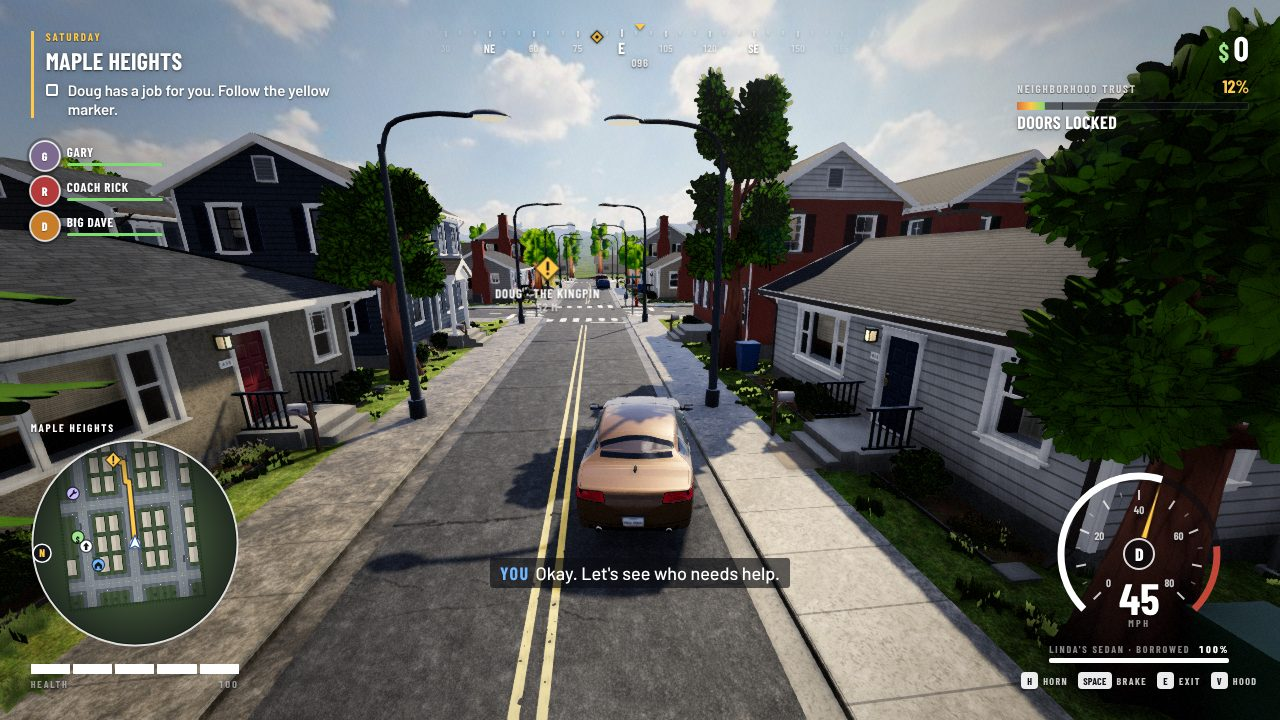
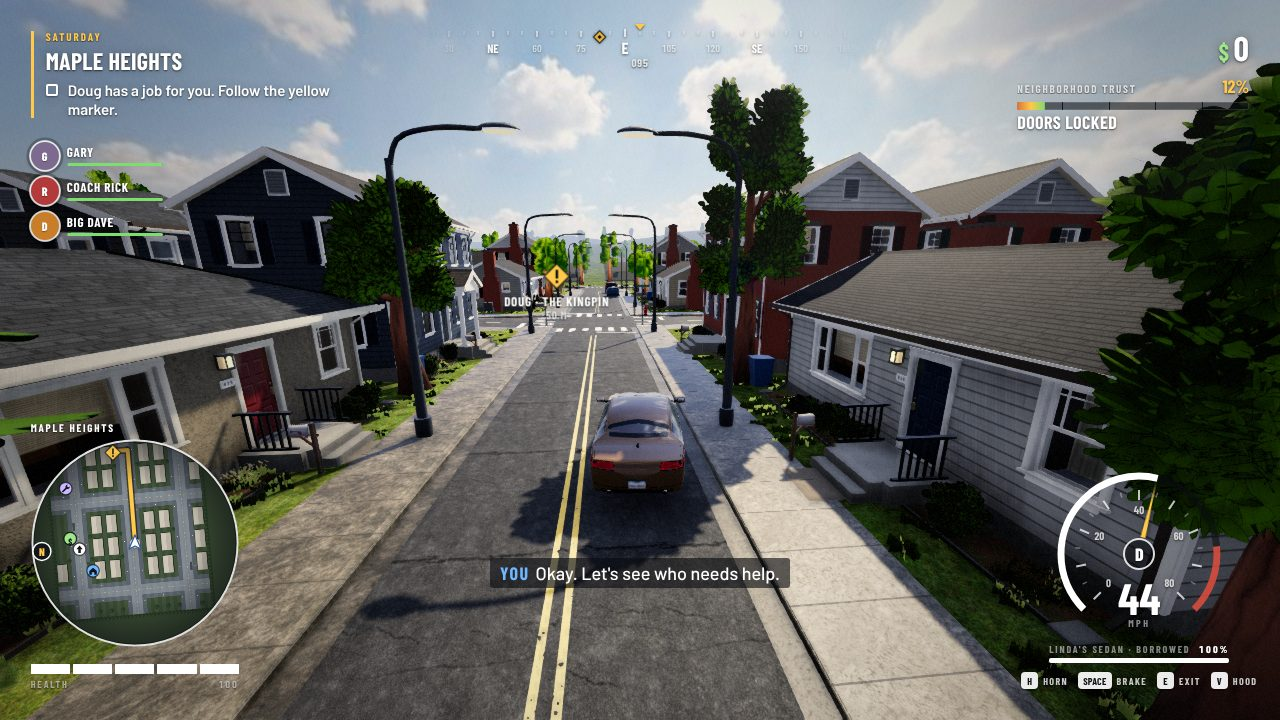
HT.Garage stock stats match the per-type handling (parity test), high-speed feel: steering fades, camera stretches
Claude-Session: https://claude.ai/code/session_01N2EZBEFRn25jtAEoE24D8i

diff --git a/dev/test-carai.js b/dev/test-carai.js
@@ -6,9 +6,12 @@ const near=(a,b,e=1e-6)=>Math.abs(a-b)<=e;
 const offRoad=(x,z)=>{const tx=Math.floor(x/2),tz=Math.floor(z/2);if(',=Vl'.includes(def.map[tz][tx]))return 0;let best=9;
   for(let dz=-1;dz<=1;dz++)for(let dx=-1;dx<=1;dx++){const c=def.map[tz+dz][tx+dx];if(!',=Vl'.includes(c))continue;const x0=(tx+dx)*2,z0=(tz+dz)*2;best=Math.min(best,Math.hypot(Math.max(x0-x,0,x-x0-2),Math.max(z0-z,0,z-z0-2)))}return best};
 test('stock minivan stats equal index.html updVan constants',()=>{const s=Ga.apply('minivan');
-  assert.deepStrictEqual([s.maxSpeed,s.boostMax,s.accel,s.boostAccel,s.brake,s.hbrake,s.coast,s.revMax,s.revAccel,s.steerResp,s.turn,s.turnFade,s.hp,s.slots,s.ammoBonus],[17,25,8,11,24,20,3.5,8,7,7,1.55,.75,100,3,0])});
+  assert.deepStrictEqual([s.maxSpeed,s.boostMax,s.accel,s.boostAccel,s.brake,s.hbrake,s.coast,s.revMax,s.revAccel,s.steerResp,s.turn,s.turnFade,s.hp,s.slots,s.ammoBonus],[25,33,9,12,24,20,3.5,8,7,7,1.55,.75,100,3,0])});
+test('index.html CAR_FEEL matches HT.Garage stock stats for every type',()=>{const src=require('fs').readFileSync(require('path').join(__dirname,'..','index.html'),'utf8');
+  for(const t of Object.keys(Ga.VEH)){const m=new RegExp('\\n '+t+':\\s*\\{([^\\n]*)\\}').exec(src.slice(src.indexOf('const CAR_FEEL=')));assert(m,t);const g=k=>+new RegExp('[,{\\s]'+k+':\\s*([\\d.]+)').exec('{'+m[1])[1],V=Ga.VEH[t];
+    for(const[a,b]of[['max','max'],['boostMax','boostMax'],['acc','acc'],['boostAcc','boostAcc'],['brake','brake'],['hbrake','hbrake'],['steerResp','steerResp'],['turn','turn'],['grip','grip']])assert.strictEqual(g(a),V[b],t+'.'+a)}});
 test('upgrades: eng2 + tyre2 + brk2 (SPEC2 E W5-1)',()=>{const v=Ga.defaultVehicle();v.perf={engine:2,tyres:2,brakes:2,sport:false};const s=Ga.apply('minivan',v);
-  assert.strictEqual(s.maxSpeed,21);assert.strictEqual(s.boostMax,30);assert(near(s.accel,10.96));assert(near(s.grip,13.95));assert.strictEqual(s.brake,36);assert(s.absGrip)});
+  assert.strictEqual(s.maxSpeed,29);assert.strictEqual(s.boostMax,38);assert(near(s.accel,12.33));assert(near(s.grip,13.95));assert.strictEqual(s.brake,36);assert(s.absGrip)});
 test('protection and utility map to hp, ram, bullets, ammo, slots',()=>{const v=Ga.defaultVehicle();v.prot={bullBar:true,armor:2};const s=Ga.apply('minivan',v,{cargo:true,rack:true,aid:true});
   assert.strictEqual(s.hp,190);assert.strictEqual(s.bulletMul,.5);assert.strictEqual(s.ramDealtFront,2);assert.strictEqual(s.impactTakenFront,.5);assert.strictEqual(s.ammoBonus,2);assert.strictEqual(s.slots,4);assert(s.firstAid);
   assert.strictEqual(Ga.apply('pickup',Ga.defaultVehicle(),{cargo:true}).ammoBonus,4)});
@@ -24,15 +27,15 @@ test('horns: synthesized notes, capped at 2.4 s, light bar never red/blue',()=>{
   for(const id in Ga.HORNS){for(const x of Ga.hornNotes(id))assert(x.t+x.d<=2.4+1e-9&&x.f>100&&x.f<1200)}
   for(const c of Ga.COSMETICS.lightBar.amber.colors){const r=parseInt(c.slice(1,3),16),g=parseInt(c.slice(3,5),16),b=parseInt(c.slice(5,7),16);assert(!(r>200&&g<80&&b<80)&&!(b>200&&r<80&&g<80))}});
 /* reference: the current index.html updVan (kinematic, no slip) */
-function oldUpdVan(V,keys,dt){const boost=keys.shift,MAX=boost?25:17;let v=V.spd,thr=keys.w?1:0,st=keys.a?1:0;
-  if(thr>0)v+=(v<0?24:boost?11:8)*dt*thr;else v-=Math.sign(v)*Math.min(Math.abs(v),3.5*dt);v=Math.min(Math.max(v,-8),MAX);V.spd=v;V.steer+=(st-V.steer)*Math.min(1,dt*7);
+function oldUpdVan(V,keys,dt){const boost=keys.shift,MAX=boost?33:25;let v=V.spd,thr=keys.w?1:0,st=keys.a?1:0;
+  if(thr>0)v+=(v<0?24:boost?12:9)*dt*thr;else v-=Math.sign(v)*Math.min(Math.abs(v),3.5*dt);v=Math.min(Math.max(v,-8),MAX);V.spd=v;V.steer+=(st-V.steer)*Math.min(1,dt*7);
   V.yaw+=V.steer*Math.min(Math.max(Math.abs(v)/5,0),1)*(1.55-Math.min(.75,Math.abs(v)/35))*Math.sign(v)*dt;V.x+=-Math.sin(V.yaw)*v*dt;V.z+=-Math.cos(V.yaw)*v*dt}
 test('feel parity: stock van ends within 10% of path length of the current updVan',()=>{for(const[keys,steps]of[[{w:1},90],[{w:1,a:1},90],[{w:1,shift:1,a:1},120],[{w:1,shift:1},150]]){
     const ref={x:0,z:0,yaw:0,spd:0,steer:0},c=C.make('minivan',{x:0,z:0,yaw:0});let dist=0;for(let i=0;i<steps;i++){const px=ref.x,pz=ref.z;oldUpdVan(ref,keys,1/30);dist+=Math.hypot(ref.x-px,ref.z-pz);C.drive(c,{thr:keys.w?1:0,st:keys.a?1:0,boost:!!keys.shift},1/30)}
     const err=Math.hypot(ref.x-c.x,ref.z-c.z);assert(err<=dist*.1,JSON.stringify(keys)+' err '+err.toFixed(2)+' of '+dist.toFixed(1));assert(near(ref.spd,c.spd,.01))}});
-test('top speeds: stock boost 25, eng3 33, sport burst 39 then 14 s cooldown',()=>{const run=(v,inp,n)=>{const c=C.make('minivan',{vehicle:v});let peak=0;for(let i=0;i<n;i++){C.drive(c,inp(i),1/30);peak=Math.max(peak,c.spd)}return{c,peak}};
-  assert(near(run(null,()=>({thr:1,boost:true}),300).peak,25,.01));const v3=Ga.defaultVehicle();v3.perf={engine:3,tyres:0,brakes:0,sport:true};assert(near(run(v3,()=>({thr:1,boost:true}),300).peak,33,.01));
-  const s=run(v3,i=>({thr:1,boost:true,sport:i>=200}),400);assert(near(s.peak,39,.05));assert(s.c.sportCd>0)});
+test('top speeds: stock boost 33, eng3 41, sport burst 47 then 14 s cooldown',()=>{const run=(v,inp,n)=>{const c=C.make('minivan',{vehicle:v});let peak=0;for(let i=0;i<n;i++){C.drive(c,inp(i),1/30);peak=Math.max(peak,c.spd)}return{c,peak}};
+  assert(near(run(null,()=>({thr:1,boost:true}),300).peak,33,.01));const v3=Ga.defaultVehicle();v3.perf={engine:3,tyres:0,brakes:0,sport:true};assert(near(run(v3,()=>({thr:1,boost:true}),300).peak,41,.01));
+  const s=run(v3,i=>({thr:1,boost:true,sport:i>=200}),400);assert(near(s.peak,47,.05));assert(s.c.sportCd>0)});
 test('van impact damage numbers (SPEC2 C.3)',()=>{const c=C.make('minivan');assert(near(C.impact(c,20,false,true),24.2));assert(near(C.impact(c,20,false,false),12.1));
   const vb=Ga.defaultVehicle();vb.prot.bullBar=true;const b=C.make('minivan',{vehicle:vb});assert(near(C.impact(b,20,true,true),12.1));
   const d=C.make('minivan');for(let i=0;i<5;i++)C.impact(d,20,false,true);assert.strictEqual(C.state(d).stage,'disabled');C.drive(d,{thr:1},1);assert(d.spd<=0.001);

diff --git a/js/carai.js b/js/carai.js
@@ -17,14 +17,14 @@ const HT=root.HT=root.HT||{};
 const clamp=(v,a,b)=>v<a?a:v>b?b:v,wrap=a=>{while(a>Math.PI)a-=2*Math.PI;while(a<-Math.PI)a+=2*Math.PI;return a};
 const fwd=y=>[-Math.sin(y),-Math.cos(y)],yawTo=(dx,dz)=>Math.atan2(-dx,-dz);
 
-/* ---------- vehicle base stats (minivan row = today's updVan constants) ---------- */
+/* ---------- vehicle base stats (stock, m/s; same numbers as index.html CAR_FEEL, checked by dev/test-carai.js) ---------- */
 const VEH={
- minivan:{name:'Family Minivan', seats:7,len:4.4,wid:2.0,hp:100,max:17,boostMax:25,acc:8,  boostAcc:11, brake:24,hbrake:20,coast:3.5,revMax:8,revAcc:7,steerResp:7,  turn:1.55,turnFade:.75,grip:9,   ram:1.0,mass:1.0,cargo:0,price:0},
- workvan:{name:'The Contractor', seats:3,len:5.0,wid:2.1,hp:130,max:16,boostMax:23,acc:7,  boostAcc:9.5,brake:22,hbrake:18,coast:3.2,revMax:7,revAcc:6,steerResp:6.5,turn:1.40,turnFade:.75,grip:8,   ram:1.2,mass:1.3,cargo:2,price:3500},
- pickup: {name:'The Tailgater',  seats:5,len:5.2,wid:2.0,hp:120,max:19,boostMax:27,acc:9.5,boostAcc:13, brake:25,hbrake:21,coast:3.5,revMax:8,revAcc:7,steerResp:7.5,turn:1.60,turnFade:.75,grip:9.5, ram:1.3,mass:1.2,cargo:2,price:5500},
- suv:    {name:'The Suburbanite',seats:7,len:4.8,wid:2.0,hp:140,max:20,boostMax:29,acc:10, boostAcc:14, brake:27,hbrake:22,coast:3.5,revMax:8,revAcc:7,steerResp:8,  turn:1.60,turnFade:.75,grip:10.5,ram:1.4,mass:1.4,cargo:1,price:7500},
- sedan:  {name:'Sedan',          seats:5,len:4.6,wid:1.9,hp:100,max:22,boostMax:27,acc:12, boostAcc:14, brake:28,hbrake:22,coast:3.5,revMax:8,revAcc:8,steerResp:8.5,turn:1.75,turnFade:.75,grip:10,  ram:.9, mass:.9, cargo:0,price:null},
- hatch:  {name:'Hatchback',      seats:4,len:3.9,wid:1.8,hp:80, max:20,boostMax:26,acc:13, boostAcc:15, brake:28,hbrake:22,coast:3.5,revMax:8,revAcc:8,steerResp:9,  turn:1.85,turnFade:.75,grip:11,  ram:.8, mass:.8, cargo:0,price:null},
+ minivan:{name:'Family Minivan', seats:7,len:4.4,wid:2.0,hp:100,max:25,boostMax:33,acc:9,  boostAcc:12, brake:24,hbrake:20,coast:3.5,revMax:8,revAcc:7,steerResp:7,  turn:1.55,turnFade:.75,grip:9,   ram:1.0,mass:1.0,cargo:0,price:0},
+ workvan:{name:'The Contractor', seats:3,len:5.0,wid:2.1,hp:130,max:20,boostMax:27,acc:6,  boostAcc:8.5,brake:20,hbrake:17,coast:3.2,revMax:7,revAcc:6,steerResp:5.2,turn:1.3,turnFade:.75,grip:7.5,   ram:1.2,mass:1.3,cargo:2,price:3500},
+ pickup: {name:'The Tailgater',  seats:5,len:5.2,wid:2.0,hp:120,max:23.5,boostMax:32,acc:7.6,boostAcc:11, brake:23,hbrake:20,coast:3.5,revMax:8,revAcc:7,steerResp:7,turn:1.62,turnFade:.75,grip:8.5, ram:1.3,mass:1.2,cargo:2,price:5500},
+ suv:    {name:'The Suburbanite',seats:7,len:4.8,wid:2.0,hp:140,max:26.5,boostMax:34,acc:8.2, boostAcc:11, brake:22,hbrake:19,coast:3.5,revMax:8,revAcc:7,steerResp:6,  turn:1.42,turnFade:.75,grip:8,ram:1.4,mass:1.4,cargo:1,price:7500},
+ sedan:  {name:'Sedan',          seats:5,len:4.6,wid:1.9,hp:100,max:30,boostMax:38,acc:12, boostAcc:15, brake:27,hbrake:21,coast:3.5,revMax:8,revAcc:8,steerResp:8.5,turn:1.75,turnFade:.75,grip:10.5,  ram:.9, mass:.9, cargo:0,price:null},
+ hatch:  {name:'Hatchback',      seats:4,len:3.9,wid:1.8,hp:80, max:27.5,boostMax:34,acc:13.5, boostAcc:16, brake:28,hbrake:22,coast:3.5,revMax:8,revAcc:8,steerResp:10,  turn:2.05,turnFade:.75,grip:11.5,  ram:.8, mass:.8, cargo:0,price:null},
 };
 const ENGINE=[{m:0,b:0,a:1},{m:2,b:2,a:1.18},{m:4,b:5,a:1.37},{m:6,b:8,a:1.62}],
       TYRES=[{g:1,s:1,t:1},{g:1.25,s:1.2,t:1.05},{g:1.55,s:1.45,t:1.10}],
@@ -240,7 +240,7 @@ function pursuerInput(van,car,G,memo){memo=memo||{};const d=Math.hypot(car.x-van
 function simulateChase(o){const W=HT.World,R=HT.Roads;const def=o.def||W.build({bridgeOpen:true}),G=o.G||R.build(def);
   const dt=o.dt||1/30,maxT=o.maxT||240,collide=o.collide===false?null:(o.collide||tileCollider(def));
   const start=o.start||G.nodes[G.nearestNode(def.places.g_earl.x,def.places.g_earl.z)];
-  const car=make(o.carType||'sedan',{x:start.x,z:start.z,yaw:0});flee(car,G,{max:o.max||27,seed:o.seed||7,threat:null});
+  const car=make(o.carType||'sedan',{x:start.x,z:start.z,yaw:0});flee(car,G,{max:o.max||35,seed:o.seed||7,threat:null});
   const away=car.ai.pts[Math.min(3,car.ai.pts.length-1)];car.yaw=yawTo(away.x-car.x,away.z-car.z);
   const vf=fwd(car.yaw),gp=o.gap||30;let sp=G.nearestRoad(car.x-vf[0]*gp,car.z-vf[1]*gp);
   if(!sp||Math.hypot(sp.x-car.x,sp.z-car.z)<gp*.6){/* behind the car is off the network: use the far end of the edge it came from */const back=G.nodes[car.ai.cur].e.find(e=>e.to!==car.ai.next)||G.nodes[car.ai.cur].e[0];const bn=G.nodes[back.to],l=Math.hypot(bn.x-car.x,bn.z-car.z)||1;sp={x:car.x+(bn.x-car.x)*Math.min(1,gp/l),z:car.z+(bn.z-car.z)*Math.min(1,gp/l)}}

diff --git a/index.html b/index.html
@@ -960,6 +960,7 @@ function updVan(dt){const e=CV;if(!e)return;const F=feel(e),c=e.car,S=e.stats,B=
   /* type character: launch torque (pickup) and a rear that steps out on the throttle */
   const v0=c.spd;S.accel=B.accel+F.torque*clamp(1-Math.abs(v0)/11,0,1);S.boostAccel=B.boostAccel+F.torque*clamp(1-Math.abs(v0)/11,0,1);
   S.grip=B.grip*(F.rear<1&&I.thr>0&&Math.abs(I.st)>.2&&Math.abs(v0)>3&&Math.abs(v0)<17?F.rear:1);
+  if(!I.hb)I.st*=1-.38*clamp(Math.abs(v0)/34,0,1);/* less steering authority at speed: quick but controllable */
   c.x=e.pos.x;c.z=e.pos.z;c.yaw=e.yaw;const push={x:0,z:0};
   const hit=drivePhys(c,I,dt,(p,r)=>{const x=p.x,z=p.z;collide(p,r);push.x+=p.x-x;push.z+=p.z-z});
   if(F.rear<1&&I.thr>0&&Math.abs(I.st)>.3&&Math.abs(c.spd)>3&&Math.abs(c.spd)<15)c.yaw+=I.st*.32*dt;
@@ -1003,13 +1004,14 @@ function updDriveCam(dt){const e=CV;if(!e)return;const F=feel(e),S=carSize(e),ba
   if(P.fp){/* hood view: just above the hood, ahead of the windscreen (or over the tailgate looking back) */
     const f=V3(-Math.sin(e.yaw),0,-Math.cos(e.yaw)),x=back?-S.l*.47:S.l*.21,h=back?S.h*.9:S.h*.88+.14;
     camera.position.set(e.pos.x+f.x*x,gy+h,e.pos.z+f.z*x);camera.rotation.set(0,0,0);camera.lookAt(camera.position.x+fw.x,camera.position.y+fw.y*.6-.04,camera.position.z+fw.z);camDist=F.cam[0]}
-  else{const tgt=V3(e.pos.x,gy+S.h*.85+.25,e.pos.z),want=tgt.clone().addScaledVector(fw,-F.cam[0]).add(V3(0,F.cam[1],0));want.y=Math.max(gy+.7,want.y);
+  else{const sk=clamp(Math.abs(e.spd)/32,0,1),cd=F.cam[0]*(1+.3*sk);/* the boom stretches out at speed */
+    const tgt=V3(e.pos.x,gy+S.h*.85+.25,e.pos.z),want=tgt.clone().addScaledVector(fw,-cd).add(V3(0,F.cam[1]*(1-.15*sk),0));want.y=Math.max(gy+.7,want.y);
     const dir=want.clone().sub(tgt),len=dir.length();dir.normalize();const sd=V3(dir.z,0,-dir.x).normalize();let dist=len,thinHit=false;/* a pole right behind the boom eases the camera in front of it; thin things near the car are ignored */
     for(const o of[0,-.45,.45]){ray.set(tgt.clone().addScaledVector(sd,o),dir);ray.near=0;ray.far=len;for(const h of ray.intersectObjects(L.solids,false)){const thick=camBlock(h.object);if(thick||h.distance>len*.45){dist=Math.min(dist,Math.max(thick?1.6:len*.45,h.distance-.35));if(!thick)thinHit=true;break}}}
     for(let k=2;k<dist;k+=.5){const q=tgt.clone().addScaledVector(dir,k);if(inCanopy(q.x,q.y,q.z)){dist=Math.max(2.2,k-.6);break}}
     camDist=dist<camDist?camDist+(dist-camDist)*Math.min(1,dt*(thinHit?6:16)):camDist+(dist-camDist)*Math.min(1,dt*3);
     camera.position.copy(tgt).addScaledVector(dir,Math.min(camDist,len));camera.lookAt(tgt.x+fw.x*2,tgt.y+.4,tgt.z+fw.z*2)}
-  const fov=CFG.fov+Math.max(0,Math.abs(e.spd))*.45+(P.fp?6:0);camera.fov+=(fov-camera.fov)*Math.min(1,dt*4);camera.updateProjectionMatrix();
+  const fov=CFG.fov+Math.min(16,Math.abs(e.spd)*.5)+(P.fp?6:0);camera.fov+=(fov-camera.fov)*Math.min(1,dt*4);camera.updateProjectionMatrix();
   sunFollow(e.pos.x,e.pos.z,fw.x,fw.z);
 }
 /* hub: the car the dad is standing beside (door side), parked hero models drifting back to the light ones */
@@ -1951,7 +1953,7 @@ const VANK={top:1,btop:1,accel:1,baccel:1,brake:1,turn:1,grip:1,steer:1};
 function vanStats(){try{return SV()&&ECON?ECON.vehicleStats():null}catch(e){return null}}
 function vanLook(){const vs=vanStats();if(!vs||!vs.makeOpts)return{type:'minivan',color:'#35577d',upgrades:{roofRack:true}};return{type:vs.type||'minivan',color:vs.makeOpts.color,upgrades:vs.makeOpts.upgrades,vs}}
 function vanApply(){const lk=vanLook(),vs=lk.vs;
-  if(vs){Object.assign(VANK,{top:vs.maxSpeed/17,btop:vs.boostMax/25,accel:vs.accel/8,baccel:vs.boostAccel/11,brake:vs.brake/24,turn:(vs.turn||1.55)/1.55,grip:(vs.grip||9)/9,steer:(vs.steerResp||7)/7})}
+  if(vs){Object.assign(VANK,{top:vs.maxSpeed/25,btop:vs.boostMax/33,accel:vs.accel/9,baccel:vs.boostAccel/12,brake:vs.brake/24,turn:(vs.turn||1.55)/1.55,grip:(vs.grip||9)/9,steer:(vs.steerResp||7)/7})}
   const v=VAN.obj;if(!v||mode!=='hub')return;
   /* another vehicle bought or chosen at Dad's Auto: swap the model in place */
   if(v.userData.type&&lk.type!==v.userData.type){const nv=makeVan(lk.color,lk.type,lk.upgrades);if(nv){const par=v.parent;if(par){par.add(nv);par.remove(v)}VAN.obj=nv;syncVan();return}}

diff --git a/dev/save.test.js b/dev/save.test.js
@@ -192,7 +192,7 @@ test('v1 save migrates to v2 (SPEC2 D)',()=>{
 test("Dad's Auto delegates to HT.Garage (SPEC2 C)",()=>{
   fresh();const d=Save.data,G=require('../js/carai.js').Garage;d.cash=20000;
   assert.equal(E.vehicleStats().maxSpeed,G.apply('minivan',G.defaultVehicle(),{}).maxSpeed,'stock = HT.Garage.apply');
-  assert.equal(E.buy('gar','eng1','auto').ok,true);assert.equal(d.garage.vehicles.minivan.perf.engine,1);assert.equal(E.vehicleStats().maxSpeed,19);
+  assert.equal(E.buy('gar','eng1','auto').ok,true);assert.equal(d.garage.vehicles.minivan.perf.engine,1);assert.equal(E.vehicleStats().maxSpeed,27);
   assert.match(E.status('gar','eng2','auto').reason,/Maple Heights trust 40/);d.prog.trust=40;assert.equal(E.status('gar','eng2','auto').state,'buy');
   assert.ok(E.vanStatsWith('gar','eng2').boostMax>E.vehicleStats().boostMax);
   assert.equal(E.buy('gar','armor1','auto').ok,true);assert.equal(d.garage.hp.minivan,140,'armor raises current HP too');
@@ -205,7 +205,7 @@ test("Dad's Auto delegates to HT.Garage (SPEC2 C)",()=>{
   assert.equal(E.buy('stick','2','auto').ok,true);assert.deepEqual(d.garage.stickers,[2,null,null]);assert.equal(E.status('stick','11','auto').state,'locked');
   assert.equal(E.buy('gar','cargo','auto').ok,true);assert.equal(E.ammoFor().find(a=>a.type==='9mm').extra,24,'+2 mags of 12');
   assert.equal(E.status('car','pickup','auto').state,'locked');d.prog.done[4]=true;assert.equal(E.buy('car','pickup','auto').ok,true);assert.ok(d.garage.owned.includes('pickup'));
-  assert.equal(E.status('car','pickup','auto').state,'owned');E.garUse('car','pickup');assert.equal(E.vehicleStats().type,'pickup');assert.equal(E.vehicleStats().maxSpeed,19);
+  assert.equal(E.status('car','pickup','auto').state,'owned');E.garUse('car','pickup');assert.equal(E.vehicleStats().type,'pickup');assert.equal(E.vehicleStats().maxSpeed,23.5);
   assert.ok(d.garage.purchases>=5);assert.equal(E.priceOf('gar','eng2','auto').price,Math.round(1200*.95),'loyalty discount');
   assert.equal(E.setLoadout('p3','smg').code,'rack');d.garage.util.rack=true;d.owned.guns.push('smg','rifle');d.loadout.p2='rifle';
   assert.equal(E.setLoadout('p3','smg').ok,true);assert.equal(E.setLoadout('p2','smg').code,'dup');assert.ok(d.events.includes('boughtCar'));

diff --git a/js/save.js b/js/save.js
@@ -620,7 +620,7 @@ function gunBars(w){if(typeof w==='string')w=weaponStats(w);return BAR_DEFS.map(
 /* Active vehicle, straight from HT.Garage.apply (fields: maxSpeed, boostMax, accel, boostAccel, brake, hbrake, grip, steerResp, turn, hp,
    bulletMul, ramDealtFront, impactTakenFront, sport*, ammoBonus, slots, firstAid, ...) plus the cosmetics and HT.Vehicles.make options. */
 function vehicleStats(s,type){s=S(s);const G=HT.Garage,g=s.garage;type=type||g.active;const v=g.vehicles[type]||defVehicle();
-  const st=G?G.apply(type,v,g.util):{type,maxSpeed:17,boostMax:25,accel:8,boostAccel:11,brake:24,grip:9,hp:100,bulletMul:1,ammoBonus:g.util.cargo?2:0,slots:g.util.rack?4:3,firstAid:!!g.util.aid,stock:true};
+  const st=G?G.apply(type,v,g.util):{type,maxSpeed:25,boostMax:33,accel:9,boostAccel:12,brake:24,grip:9,hp:100,bulletMul:1,ammoBonus:g.util.cargo?2:0,slots:g.util.rack?4:3,firstAid:!!g.util.aid,stock:true};
   st.curHp=g.hp[type]!=null?g.hp[type]:st.hp;st.active=type===g.active;
   st.paint=Object.assign({id:v.paint},G?G.COSMETICS.paint[v.paint]:{hex:'#35577d',finish:'solid'});st.rims=v.rims;st.tint=v.tint;st.lightBar=v.lightBar;st.spoiler=!!(v.spoiler||v.perf.sport);
   st.horn={id:g.horn,notes:G?G.hornNotes(g.horn):null};st.stickers=g.stickers.map(i=>i==null?null:G?G.COSMETICS.stickers[i]:String(i));
